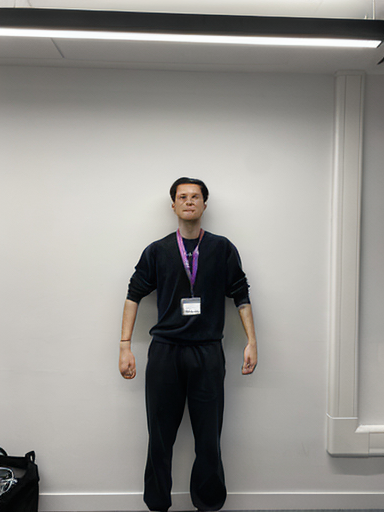
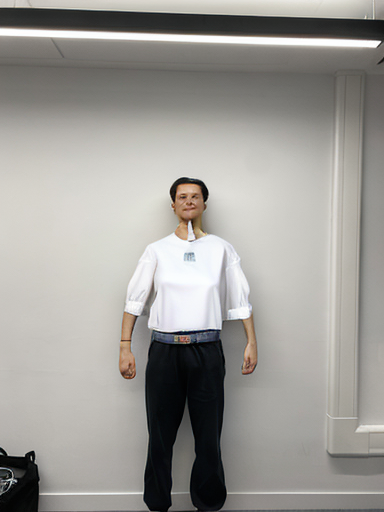
made the new fashionapi functional again

Changed region(s): [[0.3125, 0.375, 0.6562, 0.6875], [0.3125, 0.6562, 0.3438, 0.6875]]

diff --git a/examples/default_fashionapi.py b/examples/default_fashionapi.py
@@ -1,0 +1,58 @@
+# import requests
+# import json
+
+# url = "https://modelslab.com/api/v6/image_editing/fashion"
+
+# payload = json.dumps({
+#    "key": "qg5Wa8DsHDs4Whc23kE9Al90UhhyEJPkcnLgQQsPRuFJAw3ShmOIBnkTEy1Y",
+#    "prompt": "A realistic photo of a model wearing a beautiful white top.",
+#    "negative_prompt": "Low quality, unrealistic, bad cloth, warped cloth",
+#    "init_image": "https://www.vstar.in/media/cache/350x0/catalog/product/f/0/f09632_parent_1_1653003388.jpg",
+#    "cloth_image": "https://thumbs.dreamstime.com/b/plain-hollow-female-tank-top-shirt-isolated-white-background-30020169.jpg",
+#    "cloth_type": "upper_body",
+#    "height": 512,
+#    "width": 384,
+#    "guidance_scale": 8.0,
+#    "num_inference_steps": 20,
+#    "seed": 128915590,
+#    "temp": "no",
+#    "webhook": None,
+#    "track_id": None 
+# })
+
+# headers = {
+#   'Content-Type': 'application/json'
+# }
+
+# response = requests.request("POST", url, headers=headers, data=payload)
+
+# print(response.text)
+
+import requests
+import json
+
+url = "https://modelslab.com/api/v6/image_editing/fashion"
+
+payload = json.dumps({
+"key": "qg5Wa8DsHDs4Whc23kE9Al90UhhyEJPkcnLgQQsPRuFJAw3ShmOIBnkTEy1Y",
+"prompt": "A realistic photo of a model wearing a beautiful white top.",
+"negative_prompt": "Low quality, unrealistic, bad cloth, warped cloth",
+"init_image": "https://ecss-hack-24-backend.onrender.com/images/2d74f900-f500-4fdf-b412-57a5b243fca3/portrait.jpg",
+"cloth_image": "https://thumbs.dreamstime.com/b/plain-hollow-female-tank-top-shirt-isolated-white-background-30020169.jpg",
+"cloth_type": "upper_body",
+"height": 512,
+"width": 384,
+"guidance_scale": 8,
+"num_inference_steps": 20,
+"seed": 128915590,
+"temp": "no",
+"webhook": None,
+"track_id": None
+})
+headers = {
+'Content-Type': 'application/json'
+}
+
+response = requests.request("POST", url, headers=headers, data=payload)
+
+print(response.text)

diff --git a/examples/fashionapi.py b/examples/fashionapi.py
@@ -4,29 +4,28 @@ from PIL import Image
 import io
 import json
 
-url = "https://stablediffusionapi.com/api/v5/fashion"
+url = "https://modelslab.com/api/v6/image_editing/fashion"
 
 
 inputImageName = "Picture2.png"
 
 inputSplit = inputImageName.split('.')
 
-
 payload = json.dumps({
-   "key": "qg5Wa8DsHDs4Whc23kE9Al90UhhyEJPkcnLgQQsPRuFJAw3ShmOIBnkTEy1Y",
-   "prompt": "A realistic photo of a model wearing a beautiful white top.",
-   "negative_prompt": "Low quality, unrealistic, bad cloth, warped cloth",
-   "init_image": "https://ecss-hack-24-backend.onrender.com/images/2d74f900-f500-4fdf-b412-57a5b243fca3/portrait.jpg",
-   "cloth_image": "https://thumbs.dreamstime.com/b/plain-hollow-female-tank-top-shirt-isolated-white-background-30020169.jpg",
-   "cloth_type": "upper-body", #upper-body, lower-body
-   "height": 512,
-   "width": 384,
-   "guidance_scale": 15.0,
-   "num_inference_steps": 33,
-   "seed": 128915590,
-   "temp": "no",
-   "webhook": None,
-   "track_id": None 
+  "key": "qg5Wa8DsHDs4Whc23kE9Al90UhhyEJPkcnLgQQsPRuFJAw3ShmOIBnkTEy1Y",
+  "prompt": "A realistic photo of a model wearing a beautiful white top.",
+  "negative_prompt": "Low quality, unrealistic, bad cloth, warped cloth",
+  "init_image": "https://ecss-hack-24-backend.onrender.com/images/2d74f900-f500-4fdf-b412-57a5b243fca3/portrait.jpg",
+  "cloth_image": "https://thumbs.dreamstime.com/b/plain-hollow-female-tank-top-shirt-isolated-white-background-30020169.jpg",
+  "cloth_type": "dress",
+  "height": 512,
+  "width": 384,
+  "guidance_scale": 8,
+  "num_inference_steps": 20,
+  "seed": 128915590,
+  "temp": "no",
+  "webhook": None,
+  "track_id": None
 })
 
 headers = {
